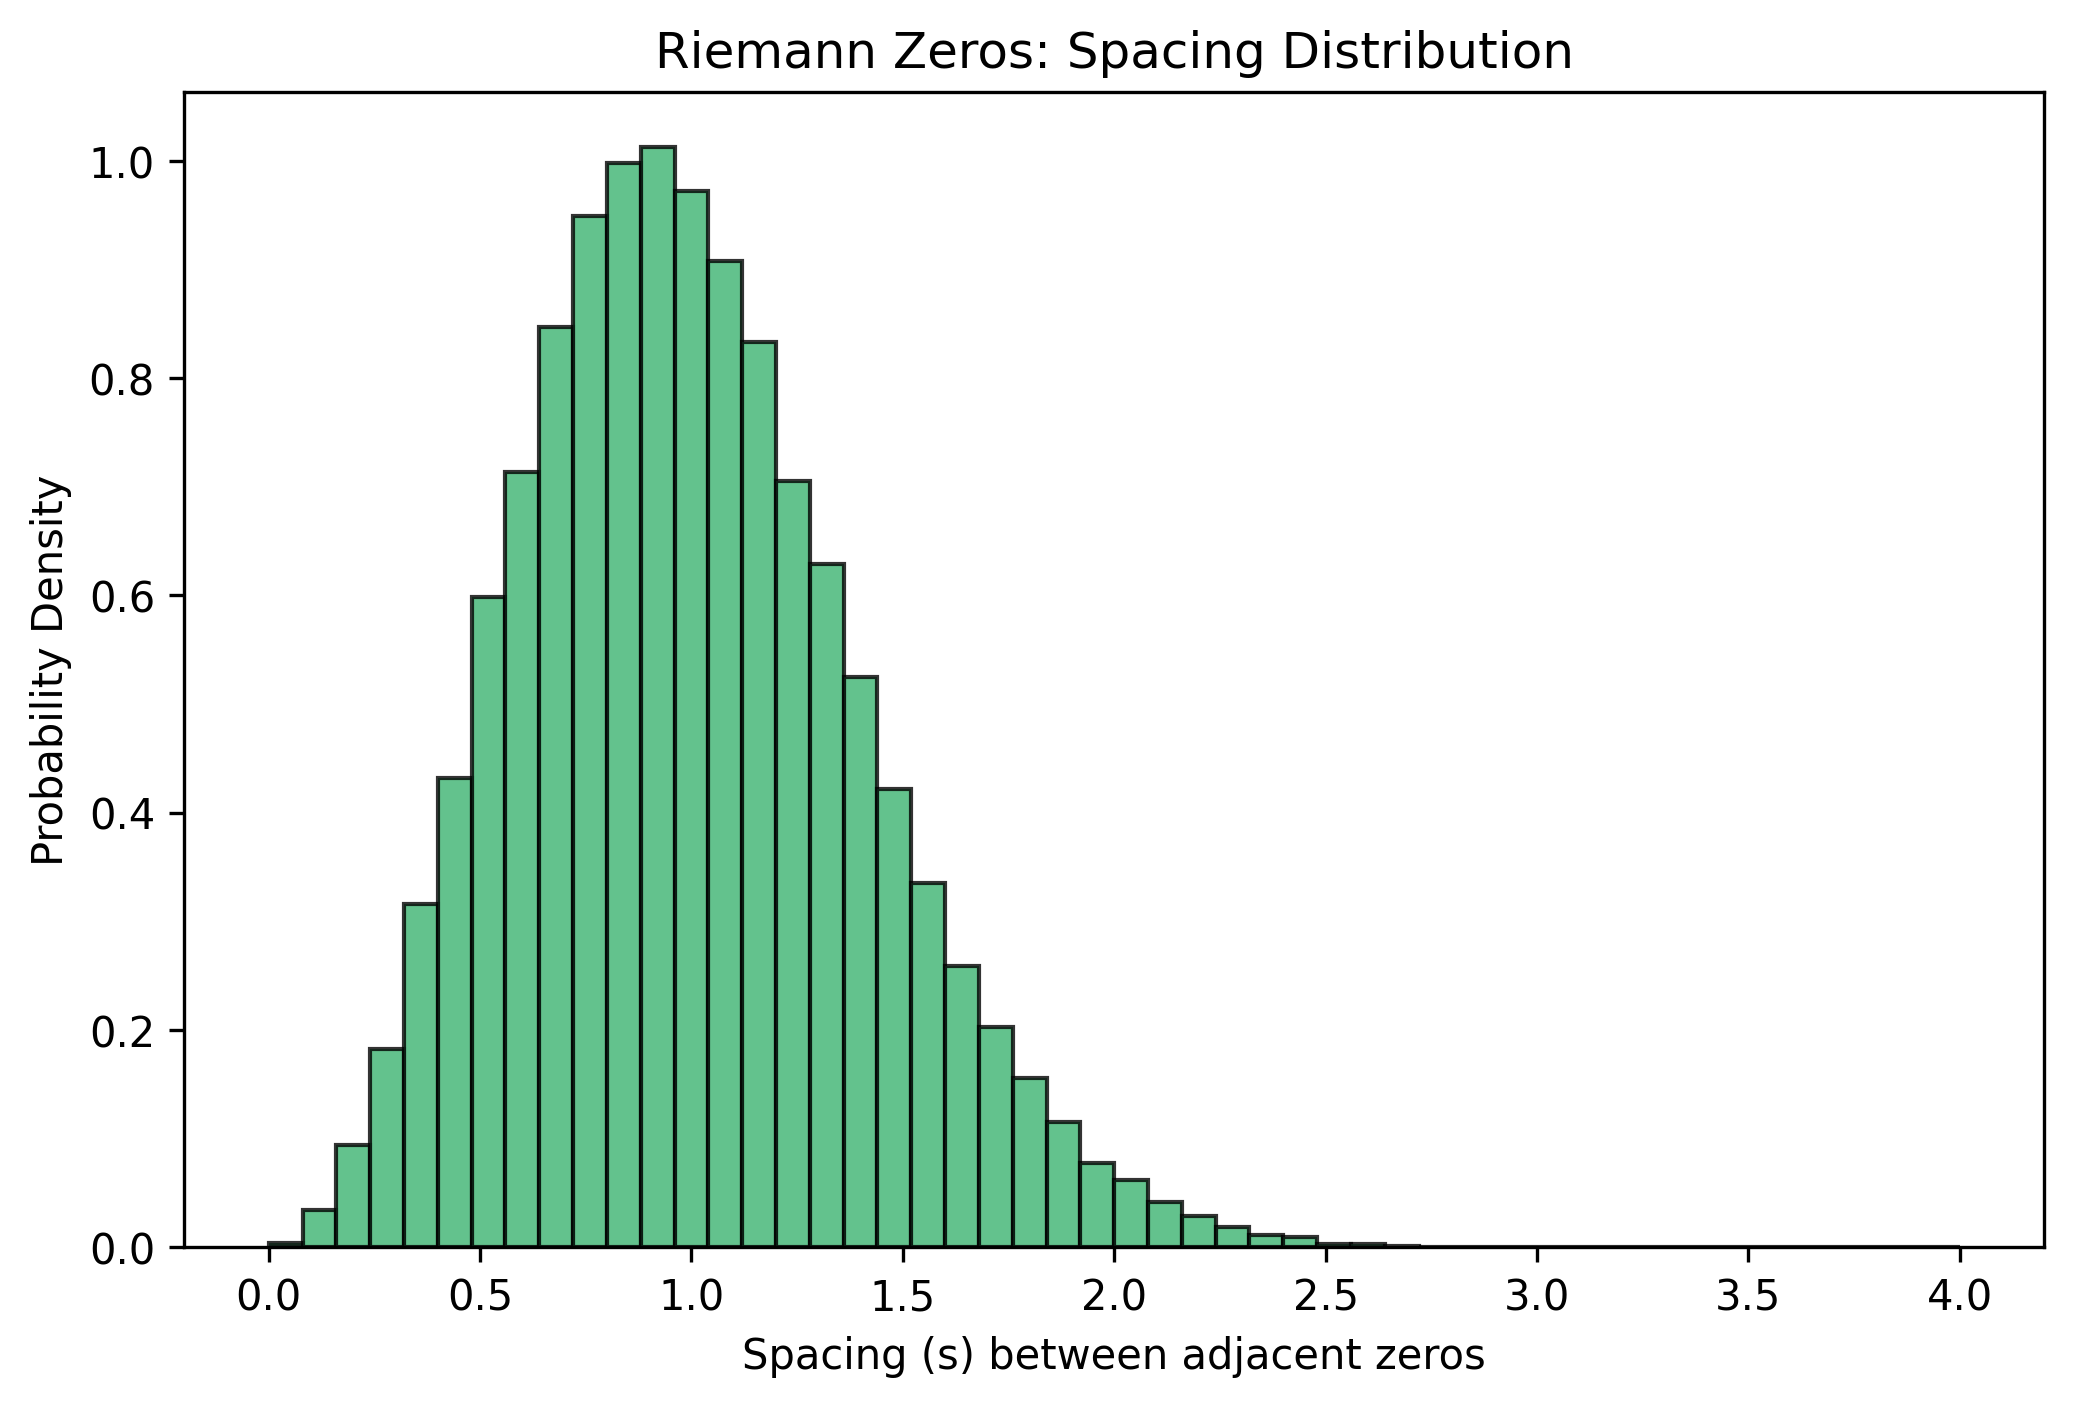
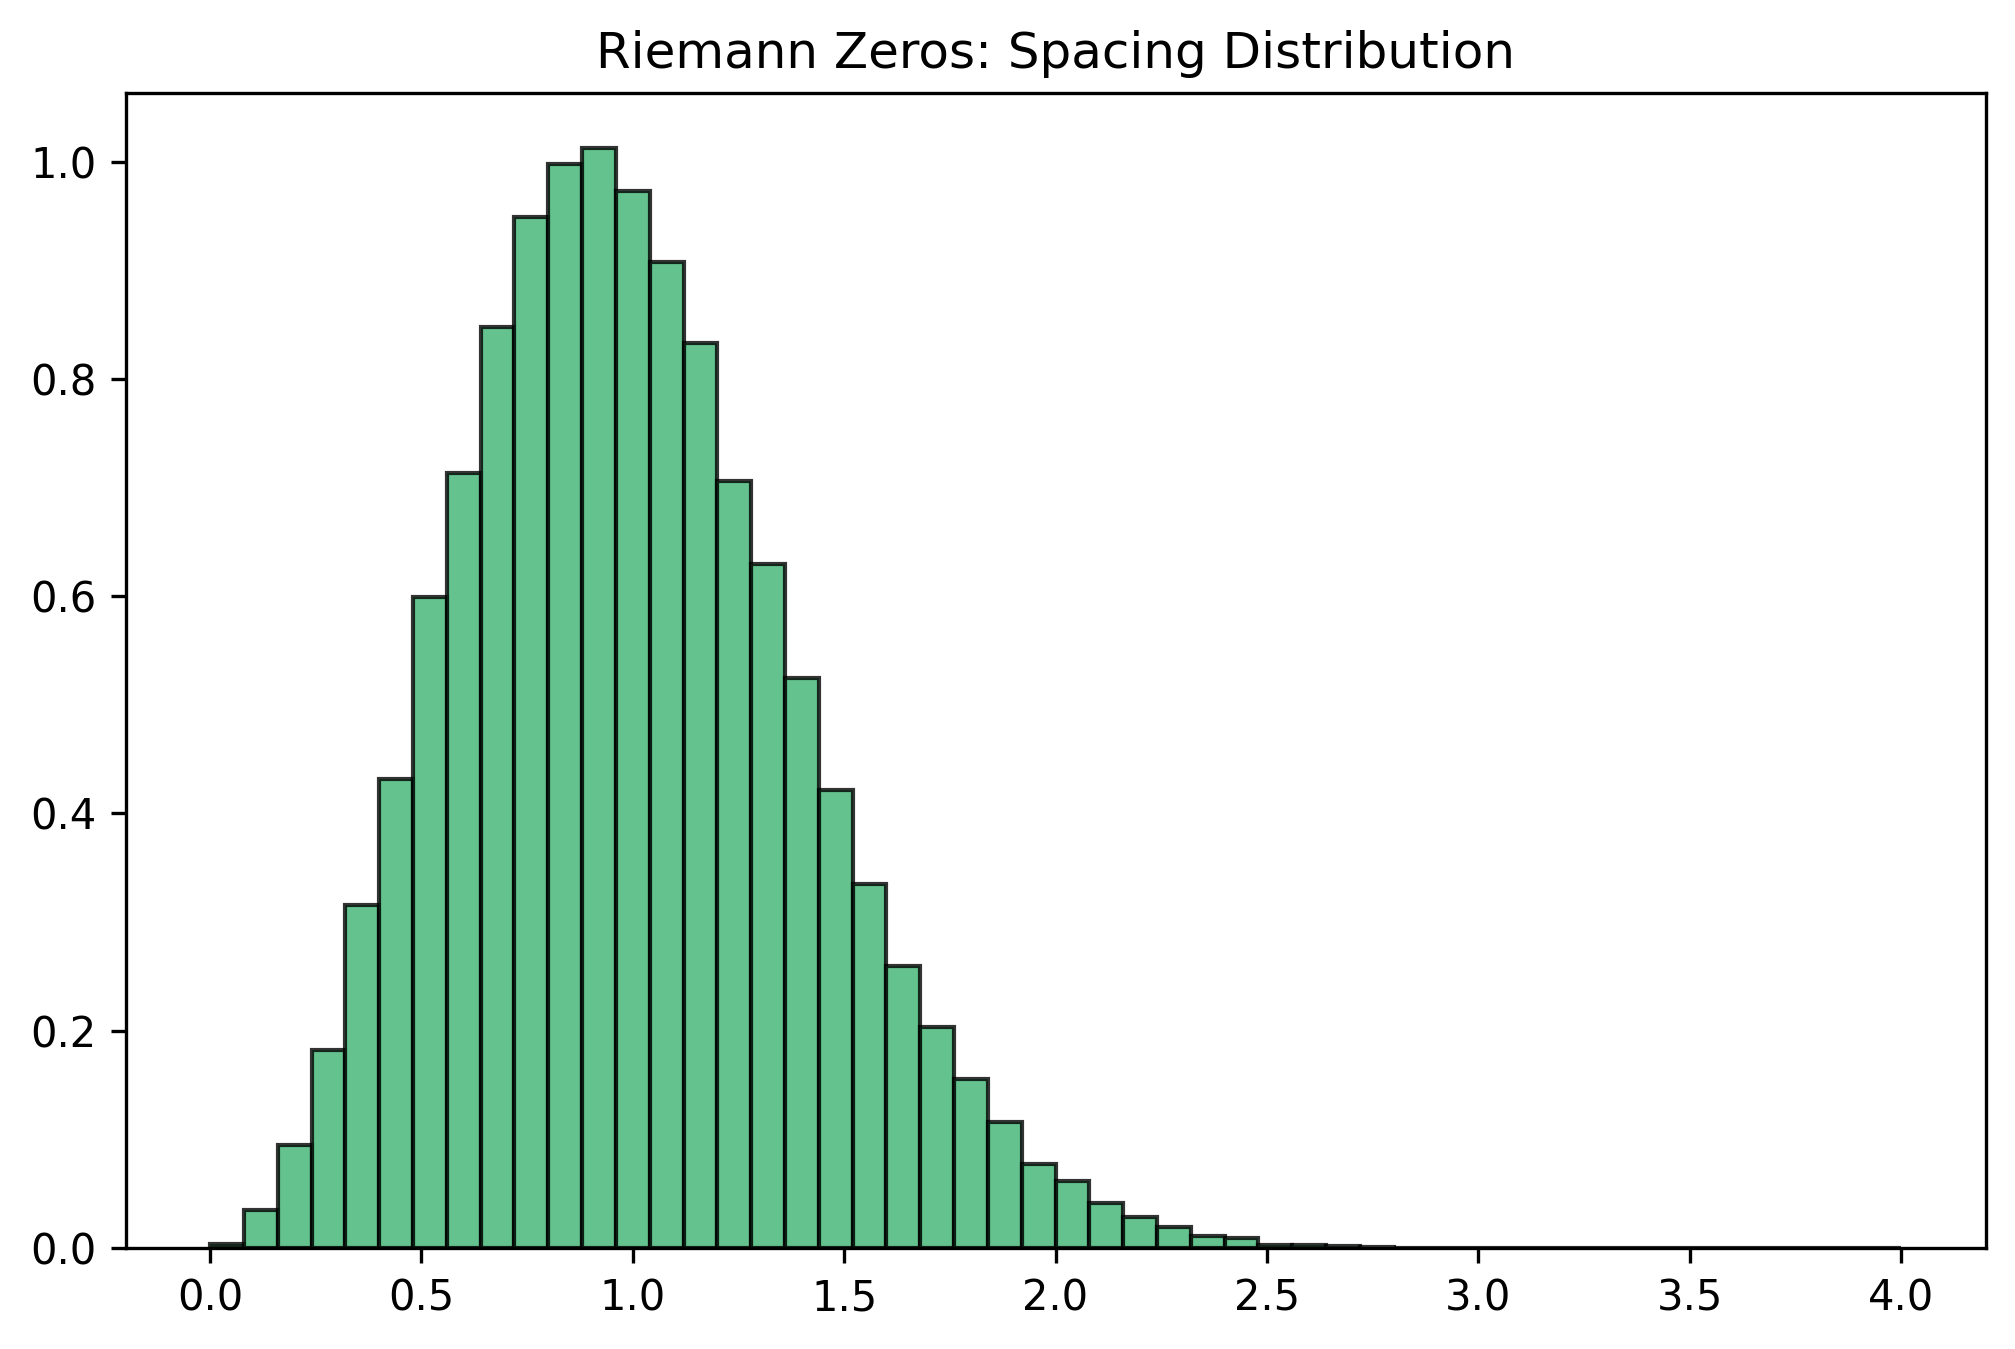
Clean code + begining of phase 3 (directory ml)

Changed region(s): [[0.0, 0.0, 1.0, 0.9963]]

diff --git a/mathematics/riemann_data.py b/mathematics/riemann_data.py
@@ -4,59 +4,54 @@ import matplotlib.pyplot as plt
 
 def load_riemann_zeros(filepath):
     """
-    Loads the Riemann Zeta zeros from a text file.
+    Loads the raw Riemann Zeta zeros (gamma heights) from a text file.
     """
-    print(f"Loading data from {filepath}...")
+    print(f"Loading Riemann data from {filepath}")
     try:
-        zeros = np.loadtxt(filepath)
-        return zeros
+        return np.loadtxt(filepath)
     except FileNotFoundError:
-        print(f"Error: The file {filepath} was not found.")
-        print("Please make sure you downloaded it and put it in the 'data' folder.")
+        print(f"Error: Could not find {filepath}.")
         return None
-
-def unfold_riemann_zeros(gamma_array):
+        
+def unfold_riemann(gamma_array):
     """
-    Unfolds the Riemann zeros using the leading asymptotic term of the counting function N(T).
+    Unfolds the Riemann zeros to normalize the local density to 1.
     """
     unfolded = (gamma_array / (2 * np.pi)) * (np.log(gamma_array / (2 * np.pi)) - 1)
     return unfolded
 
+def get_riemann_spacings(filepath):
+    """
+    Full pipeline to load, unfold, and return the spacings of Riemann zeros.
+    """
+    zeros = load_riemann_zeros(filepath)
+    if zeros is not None:
+        unfolded_zeros = unfold_riemann(zeros)
+        return np.diff(unfolded_zeros)
+    return None
 
+def save_riemann_plot(unfolded_spacings, output_dir="../mathematics"):
+    """
+    Saves the spacing distribution plot to visually verify the level repulsion.
+    """
+    os.makedirs(output_dir, exist_ok=True)
+    plt.figure(figsize=(8, 5))
+    plt.hist(unfolded_spacings, bins=50, range=(0, 4), density=True, color='mediumseagreen', edgecolor='black', alpha=0.8)
+    plt.title("Riemann Zeros: Spacing Distribution")
+    plt.savefig(os.path.join(output_dir, "riemann_surmise.png"), dpi=300, bbox_inches='tight')
+    plt.close()
+    print(f"Plot successfully saved in '{output_dir}/'")
+
+
+# ==========================================
 if __name__ == "__main__":
-    # Define the path to our downloaded file (remonter d'un dossier depuis 'mathematics')
-    data_path = os.path.join("../data", "zeros_100k.txt")
+    print("--- Testing Riemann Module ---")
     
-    # Load the zeros
-    riemann_zeros = load_riemann_zeros(data_path)
+    test_data_path = os.path.join("../data", "zeros_100k.txt")
     
-    if riemann_zeros is not None:
-        num_zeros = len(riemann_zeros)
-        print(f"\nSuccess! Loaded {num_zeros} Riemann zeros.")
-        
-        # Physics / Math check: The first zero should be around 14.1347
-        print(f"First zero: {riemann_zeros[0]:.4f}")
-
-        # === L'UNFOLDING ===
-        unfolded_zeros = unfold_riemann_zeros(riemann_zeros)
-        unfolded_spacings = np.diff(unfolded_zeros)
-        
-        mean_spacing = np.mean(unfolded_spacings)
-        print(f"\nMean spacing of the unfolded zeros: {mean_spacing:.4f} (Theoretical = 1.0000)")
-
-        # === AFFICHAGE ===
-        output_dir = "graph" # On pointe vers le dossier global
-        os.makedirs(output_dir, exist_ok=True)
-
-        plt.figure(figsize=(8, 5))
-        plt.hist(unfolded_spacings, bins=50, range=(0, 4), density=True, color='mediumseagreen', edgecolor='black', alpha=0.8)
-        
-        # Titres adaptés aux mathématiques
-        plt.title("Riemann Zeros: Spacing Distribution")
-        plt.xlabel("Spacing (s) between adjacent zeros")
-        plt.ylabel("Probability Density")
-        
-        surmise_path = os.path.join(output_dir, "riemann_surmise.png")
-        plt.savefig(surmise_path, dpi=300, bbox_inches='tight')
-        print(f"Level repulsion plot saved to '{surmise_path}'")
-        plt.close()
+    # Get the spacings directly using our new helper function
+    spacings = get_riemann_spacings(test_data_path)
+    
+    if spacings is not None:
+        print(f"Mean spacing: {np.mean(spacings):.4f} (Theoretical = 1.0000)")
+        save_riemann_plot(spacings, output_dir="graph")

diff --git a/physics/gue_generator.py b/physics/gue_generator.py
@@ -1,0 +1,78 @@
+import os
+import numpy as np
+import matplotlib.pyplot as plt
+
+def generate_gue_eigenvalues(n_size):
+    """
+    Generates the eigenvalues of a random matrix from the Gaussian Unitary Ensemble (GUE).
+    """
+    # Complex Gaussian noise
+    A = np.random.normal(size=(n_size, n_size)) + 1j * np.random.normal(size=(n_size, n_size))
+    
+    # Symmetrization to make the matrix Hermitian
+    H = (A + A.conj().T) / 2
+    
+    # Diagonalization => eigh automatically returns sorted eigenvalues
+    eigenvalues = np.linalg.eigh(H)[0]
+    return eigenvalues
+
+def unfold_gue(eigenvalues, n_size):
+    """
+    Unfolds the GUE eigenvalues using the Wigner Semicircle CDF.
+    """
+    R = 2.0 * np.sqrt(n_size)
+    e_clipped = np.clip(eigenvalues, -R, R)
+    cdf = 0.5 + (e_clipped / (np.pi * R)) * np.sqrt(1 - (e_clipped / R)**2) + (1.0 / np.pi) * np.arcsin(e_clipped / R)
+    return n_size * cdf
+
+def get_massive_gue_spacings(n_size=1000, nb_matrices=100):
+    """
+    Generates multiple GUE matrices, unfolds them, and computes the level spacings.
+    """
+    all_spacings = []
+    print(f"Generating {nb_matrices} GUE matrices of size {n_size}x{n_size}")
+    
+    for i in range(nb_matrices):
+        if i % 20 == 0:
+            print(f"  -> Processing matrix {i}/{nb_matrices}")
+        eigenvalues = generate_gue_eigenvalues(n_size)
+        unfolded = unfold_gue(eigenvalues, n_size)
+        spacings = np.diff(unfolded)
+        all_spacings.extend(spacings)
+        
+    return np.array(all_spacings)
+
+def save_gue_plots(eigenvalues, unfolded_spacings, n_size, output_dir="graph"):
+    """
+    Generates and saves the macroscopic and microscopic plots for validation.
+    """
+    os.makedirs(output_dir, exist_ok=True)
+    
+    # Global Density (Semicircle)
+    plt.figure(figsize=(8, 5))
+    plt.hist(eigenvalues, bins=50, density=True, color='skyblue', edgecolor='black', alpha=0.8)
+    plt.title(f"Wigner Semicircle Law (N={n_size})")
+    plt.savefig(os.path.join(output_dir, "wigner_semicircle.png"), dpi=300, bbox_inches='tight')
+    plt.close()
+    
+    # Local Fluctuations (Surmise)
+    plt.figure(figsize=(8, 5))
+    plt.hist(unfolded_spacings, bins=50, range=(0, 4), density=True, color='coral', edgecolor='black', alpha=0.8)
+    plt.title("Wigner Surmise: Quantum Level Repulsion")
+    plt.savefig(os.path.join(output_dir, "wigner_surmise.png"), dpi=300, bbox_inches='tight')
+    plt.close()
+    print(f"Plots successfully saved in '{output_dir}/'")
+
+
+
+# ==========================================
+if __name__ == "__main__":
+    test_n = 1000
+    print(f"Testing GUE Module (N={test_n})")
+    
+    #  Generate one matrix for the plots
+    test_eigenvalues = generate_gue_eigenvalues(test_n)
+    test_spacings = np.diff(unfold_gue(test_eigenvalues, test_n))
+    
+    # Save the visualizations
+    save_gue_plots(test_eigenvalues, test_spacings, test_n)

diff --git a/ml/dataset_builder.py b/ml/dataset_builder.py
@@ -1,0 +1,71 @@
+import os
+import numpy as np
+import torch
+from torch.utils.data import Dataset, DataLoader
+
+from physics.gue_generator import get_massive_gue_spacings
+from mathematics.riemann_data import get_riemann_spacings
+
+
+def create_sliding_windows(data_array, window_size=50):
+    """Cuts a 1D array into overlapping sequences of size window_size."""
+    sequences = [data_array[i : i + window_size] for i in range(len(data_array) - window_size + 1)]
+    return np.array(sequences)
+
+
+class ChaosDataset(Dataset):
+    """PyTorch Dataset for GUE (0) vs Riemann (1) classification."""
+    def __init__(self, sequences, labels):
+        self.sequences = torch.tensor(sequences, dtype=torch.float32)
+        self.labels = torch.tensor(labels, dtype=torch.long)
+        
+    def __len__(self):
+        return len(self.labels)
+    
+    def __getitem__(self, idx):
+        return self.sequences[idx], self.labels[idx]
+
+
+# ==========================================
+if __name__ == "__main__":
+    base_dir = os.path.dirname(os.path.abspath(__file__))
+    data_dir = os.path.join(base_dir, "..", "data")
+    os.makedirs(data_dir, exist_ok=True)
+    
+    window_size = 50
+
+    # 1. GUE Data (Label 0) with caching
+    gue_cache_path = os.path.join(data_dir, "gue_spacings_cache.npy")
+    
+    if os.path.exists(gue_cache_path):
+        print("Loading GUE spacings from cache")
+        gue_spacings = np.load(gue_cache_path)
+    else:
+        print("Generating GUE matrices")
+        gue_spacings = get_massive_gue_spacings(n_size=1000, nb_matrices=100)
+        np.save(gue_cache_path, gue_spacings)
+
+    # 2. Riemann Data (Label 1)
+    riemann_data_path = os.path.join(data_dir, "zeros_100k.txt")
+    print("Loading Riemann zeros")
+    riemann_spacings = get_riemann_spacings(riemann_data_path)
+
+    # 3. Build sliding windows and labels
+    print("Building sequences")
+    gue_seqs = create_sliding_windows(gue_spacings, window_size)
+    riemann_seqs = create_sliding_windows(riemann_spacings, window_size)
+
+    gue_labels = np.zeros(len(gue_seqs))      
+    riemann_labels = np.ones(len(riemann_seqs)) 
+
+    all_sequences = np.concatenate([gue_seqs, riemann_seqs], axis=0)
+    all_labels = np.concatenate([gue_labels, riemann_labels], axis=0)
+    
+    # 4. PyTorch DataLoader test
+    my_dataset = ChaosDataset(all_sequences, all_labels)
+    my_dataloader = DataLoader(my_dataset, batch_size=32, shuffle=True)
+    
+    print(f"Dataset ready. Total sequences: {len(my_dataset)} (GUE: {len(gue_seqs)}, Riemann: {len(riemann_seqs)})")
+    
+    batch_sequences, batch_labels = next(iter(my_dataloader))
+    print(f"Test batch shape: {batch_sequences.shape}")
